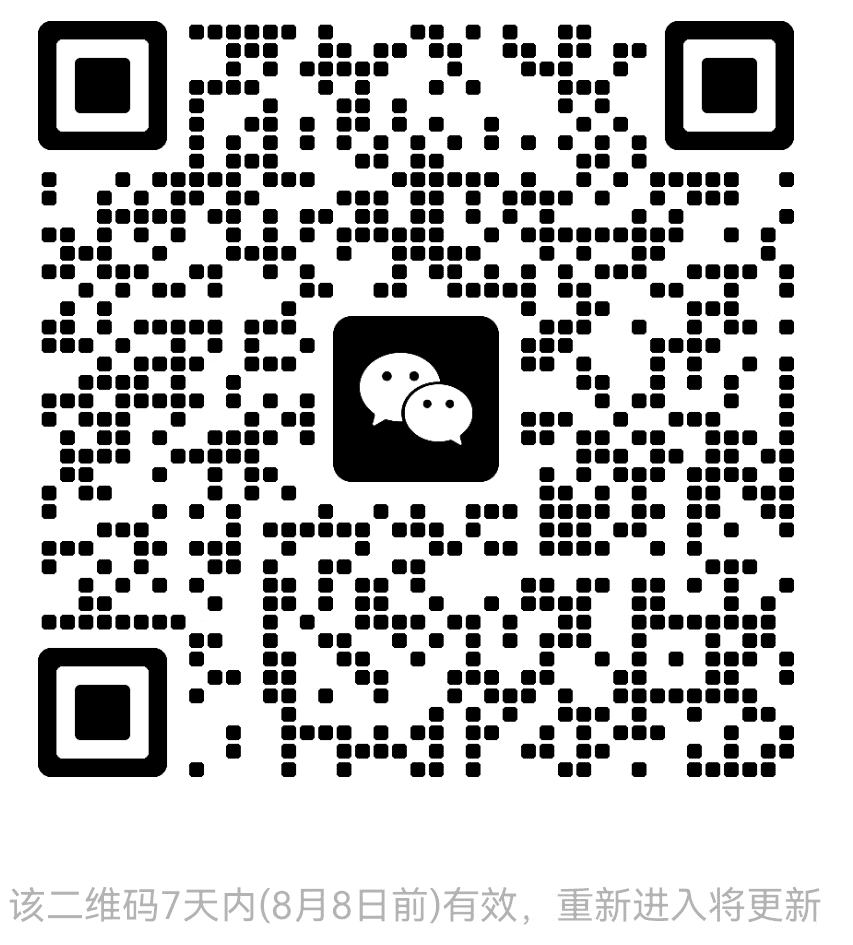
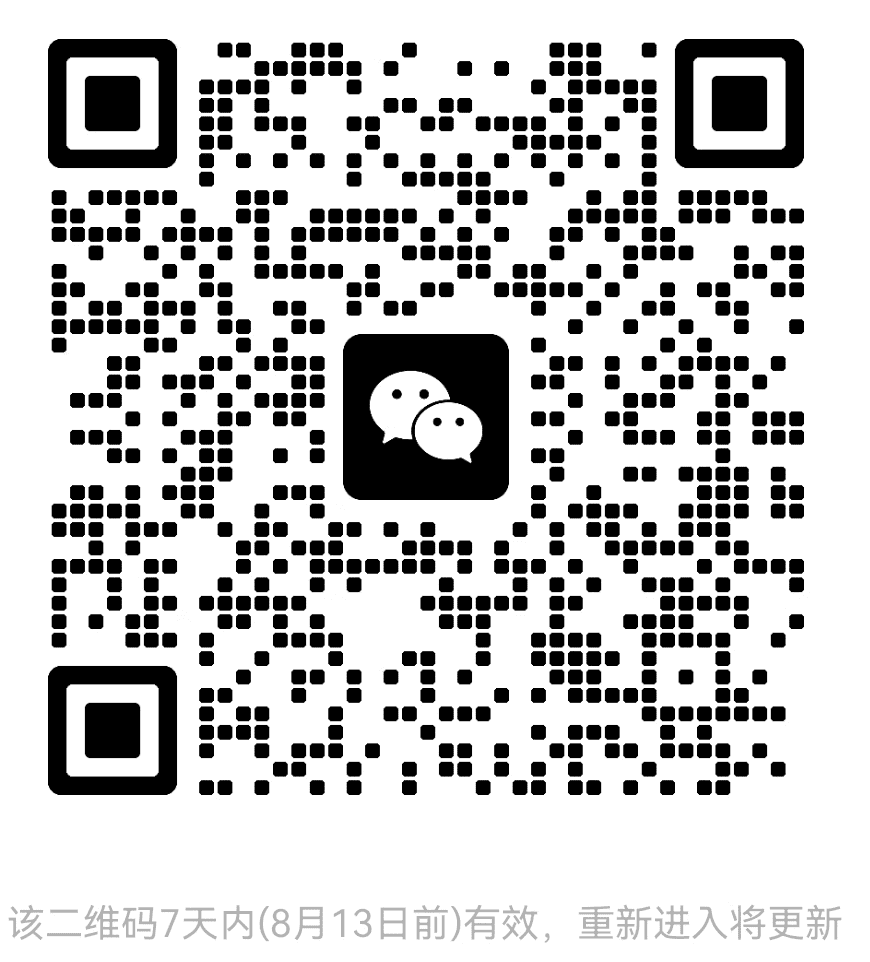
Update weixin

diff --git a/README-zh.md b/README-zh.md
@@ -8,7 +8,7 @@
 [![Percentage of issues still open](http://isitmaintained.com/badge/open/jd-opensource/joylive-agent.svg)](http://isitmaintained.com/project/jd-opensource/joylive-agent "Percentage of issues still open")
 [![Slack Status](https://img.shields.io/badge/slack-join_chat-white.svg?logo=slack&style=social)](https://joylivehq.slack.com)
 
-<img src="docs/image/weixin.png" title="该二维码有效期截止到2025/08/08" width="150"  />
+<img src="docs/image/weixin.png" title="该二维码有效期截止到2025/08/13" width="150"  />
 
 [English](./README.md) | 简体中文
 

diff --git a/README.md b/README.md
@@ -8,7 +8,7 @@
 [![Percentage of issues still open](http://isitmaintained.com/badge/open/jd-opensource/joylive-agent.svg)](http://isitmaintained.com/project/jd-opensource/joylive-agent "Percentage of issues still open")
 [![Slack Status](https://img.shields.io/badge/slack-join_chat-white.svg?logo=slack&style=social)](https://joylivehq.slack.com)
 
-<img src="docs/image/weixin.png" title="The QR code is valid until 2025/08/08" width="150" />
+<img src="docs/image/weixin.png" title="The QR code is valid until 2025/08/13" width="150" />
 
 English | [简体中文](./README-zh.md)
 
